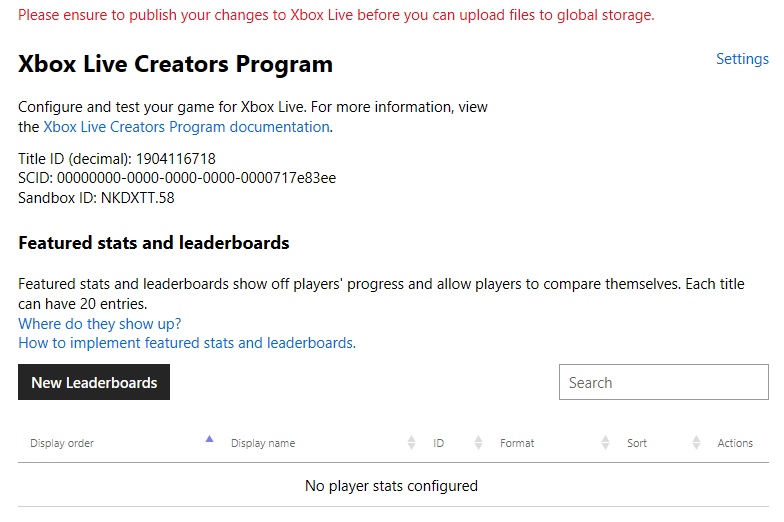
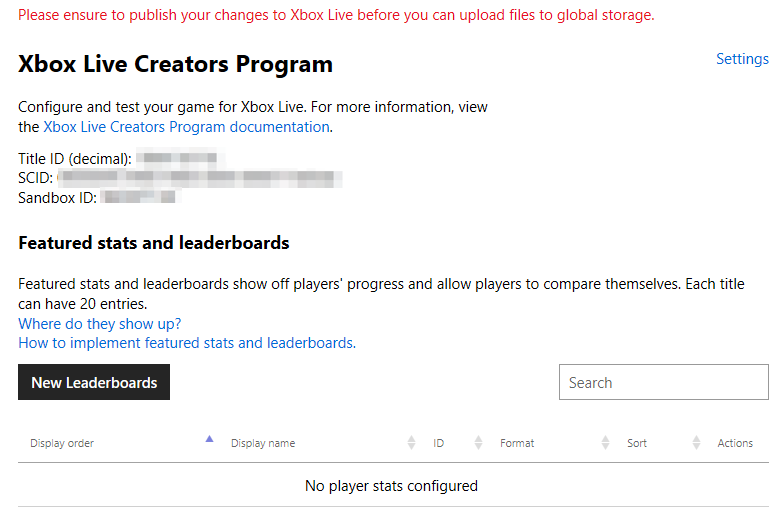
Blur strings in capture, remove todo comments about it

Changed region(s): [[0.0612, 0.2759, 0.4286, 0.3985]]

diff --git a/xbox-live-docs-pr/get-started/setup-partner-center/setup-partner-center-creators.md b/xbox-live-docs-pr/get-started/setup-partner-center/setup-partner-center-creators.md
@@ -111,9 +111,8 @@ At Partner Center, create a new app representing your game, as follows.
    Below the Confirm button, the message temporarily appears:
    "Your product is being Xbox Live enabled. This may take a few minutes."
 
-   Then the "Xbox Live Creators Program" page appears, with the message at the top "Please ensure to publish your changes to Xbox Live before you can upload files to global storage."
+   Then the "Xbox Live Creators Program" page appears.
 
-   <!-- status: todo: blur the Title ID value, the SCID value, the Sandbox ID value -->
    ![The "Xbox Live Creators Program" page](images/pc_cr_xbl_creators_pgm_pg.png)
 
 You've now completed the initial setup of your game.
@@ -155,7 +154,6 @@ In Partner Center, if you are not already at the "Xbox Live Creators Program" pa
 
    The "Xbox Live Creators Program" page appears.
 
-   <!-- status: todo: blur the Title ID value, the SCID value, the Sandbox ID value (per above for this image file) -->
    ![The "Xbox Live Creators Program" page](images/pc_cr_xbl_creators_pgm_pg.png)
 
 
